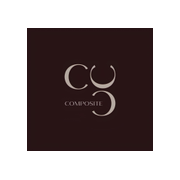
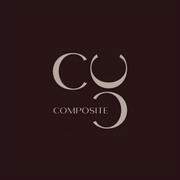
Hilangkan bingkai putih ikon PWA

diff --git a/src/app/manifest.js b/src/app/manifest.js
@@ -12,13 +12,13 @@ export default function manifest() {
     theme_color: "#f9f6f0",
     icons: [
       {
-        src: "/images/pwa/icon-192.png?v=2",
+        src: "/images/pwa/icon-192.png?v=3",
         sizes: "192x192",
         type: "image/png",
         purpose: "any maskable",
       },
       {
-        src: "/images/pwa/icon-512.png?v=2",
+        src: "/images/pwa/icon-512.png?v=3",
         sizes: "512x512",
         type: "image/png",
         purpose: "any maskable",

diff --git a/src/app/layout.js b/src/app/layout.js
@@ -17,7 +17,7 @@ const jakarta = Plus_Jakarta_Sans({
 
 export const metadata = {
   icons: {
-    apple: "/images/pwa/apple-touch-icon.png?v=2",
+    apple: "/images/pwa/apple-touch-icon.png?v=3",
     icon: { url: "/images/Composite-Logo-Peanut.webp?v=2", type: "image/webp" },
   },
   appleWebApp: {
